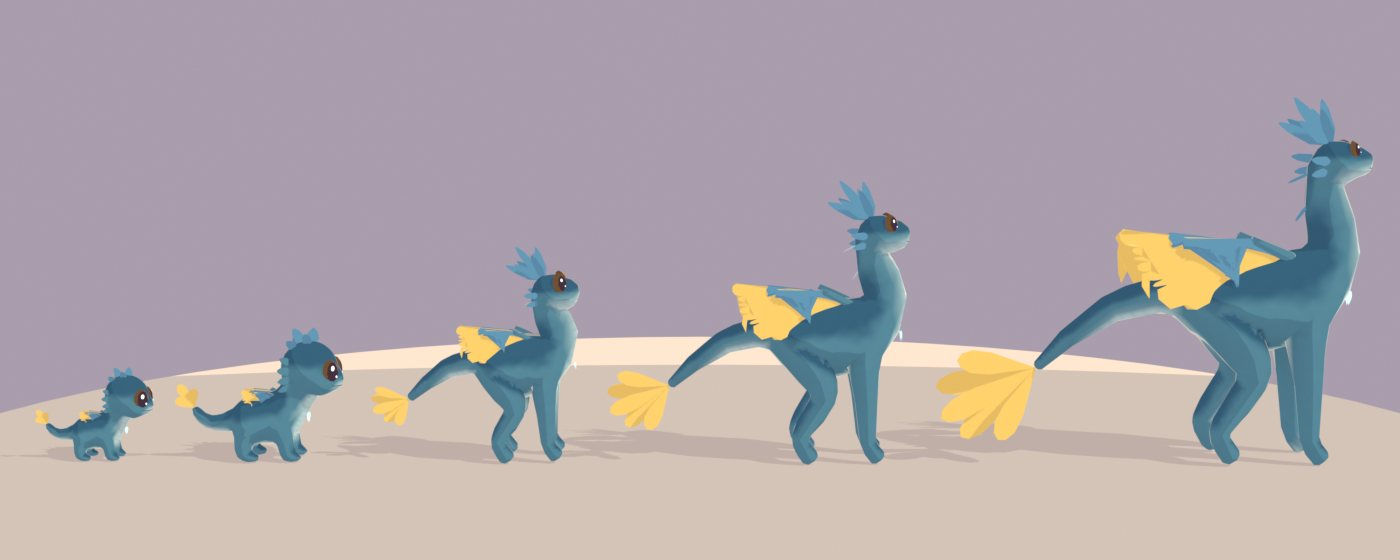
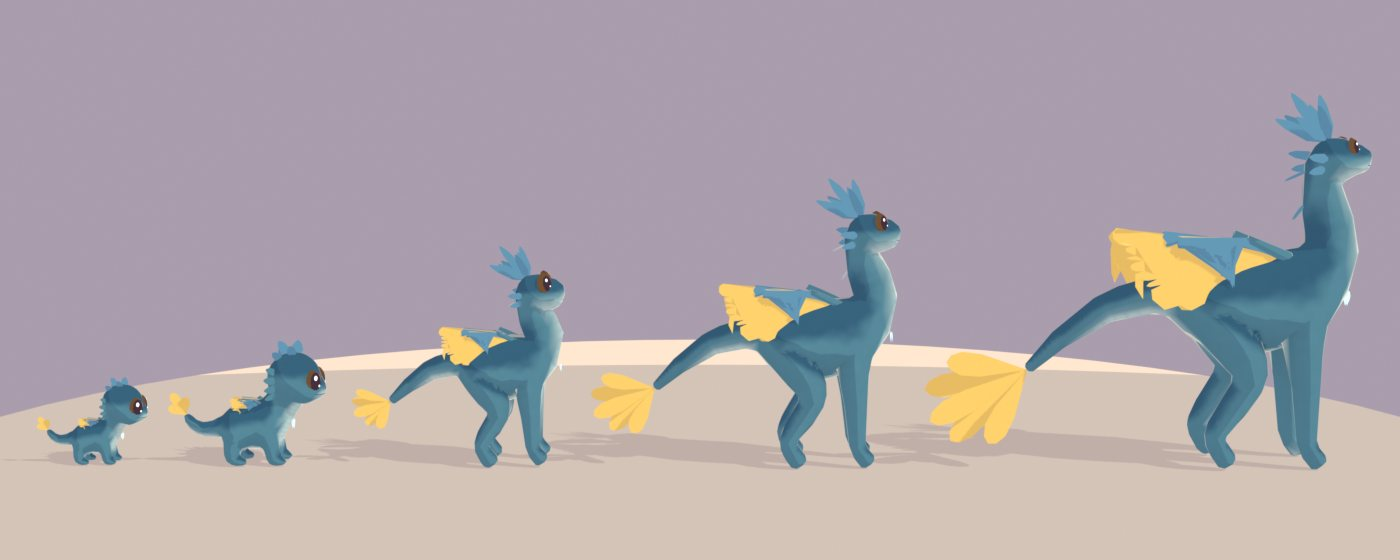
R11b: the lineups at the common scale, all nine together, a sizes question

diff --git a/tools/dragons/review_site/template.html b/tools/dragons/review_site/template.html
@@ -248,6 +248,7 @@ footer { margin-top: 40px; color: var(--muted); font-size: 13px; max-width: 72ch
     <h2 id="sum-h">At a glance</h2>
     <div class="table-scroll"><table id="summary"></table></div>
     <p class="note">Rarer kinds start with better stats: common ones total 28, harder to find 31, rare 34, and the Blazeplume sits a little above its better parent. Size is grown size next to a Pouncer; the breeds span about ±50%.</p>
+    <figure id="together" hidden></figure>
   </section>
 
   <div id="kinds"></div>
@@ -392,6 +393,18 @@ function renderKind(k) {
         oninput: () => notesChanged("verdicts", k.id) }),
       h("div", { class: "saved", id: "s-verdicts-" + k.id, "aria-live": "polite" })));
   return art;
+}
+
+function renderTogether() {
+  const t = DATA.together;
+  if (!t) return;
+  const fig = $("#together");
+  lightboxSets.together = { title: "All nine", items: [{ src: t.src, caption: "Grown, at true size" }] };
+  fig.append(
+    h("button", { type: "button", "aria-label": "See full size: all nine at true size", onclick: () => openLightbox("together", 0) },
+      h("img", { src: t.src, alt: "All nine dragons grown, side by side at true size, in rows by rarity", width: t.w, height: t.h })),
+    h("figcaption", {}, "All nine grown, side by side at true size: the common three, the harder to find three, then the rare two and the crossbreed. Is anyone too big or too small?"));
+  fig.hidden = false;
 }
 
 function renderQuestions() {
@@ -553,6 +566,7 @@ async function connect() {
 
 renderRail();
 renderSummary();
+renderTogether();
 const kindsBox = $("#kinds");
 for (const k of DATA.kinds) kindsBox.append(renderKind(k));
 renderQuestions();

diff --git a/tools/dragons/review_site/make.py b/tools/dragons/review_site/make.py
@@ -133,7 +133,11 @@ QUESTIONS = [
          hint="Now, as a test build (dev menu, Next kind), or after DR3, when they hatch from real eggs in "
               "your save and your current dragons become new kinds.",
          choices=["Send a test build now", "After DR3"]),
-    dict(id="other", q="Anything else?", hint="The look overall, the sizes, stats, names, anything.", choices=[]),
+    dict(id="sizes", q="Do the sizes feel right?",
+         hint="The picture under the table shows all nine grown at true size. The Puffback is the biggest (1.35 of a "
+              "Pouncer), the Glimmermoth the smallest (0.85); each is one number to change.",
+         choices=["Right as they are", "Change some (say which)"]),
+    dict(id="other", q="Anything else?", hint="The look overall, stats, names, anything.", choices=[]),
 ]
 
 
@@ -184,8 +188,15 @@ def main():
             colourings=[v["name"] for v in k.VARIANTS[:3]], rare=k.VARIANTS[3]["name"], blurb=m["blurb"],
             parents=[dragons.kind(p).META["title"] for p in m.get("parents", ())],
             notes=NOTES.get(name, {}), sheets=sheets, game=game))
+    together = None
+    jpg = os.path.join(ROOT, "docs", "art", "reviews", "R11b", "together.jpg")
+    if os.path.exists(jpg):
+        shutil.copy(jpg, os.path.join(SITE, "img", "together.jpg"))
+        w, h = png_size(os.path.join(ROOT, "build", "review", "together.png"))
+        together = dict(src="img/together.jpg", w=w, h=h)
+        files.append("img/together.jpg")
     template = open(os.path.join(HERE, "template.html"), encoding="utf-8").read()
-    data = json.dumps(dict(kinds=kinds, questions=QUESTIONS), ensure_ascii=False)
+    data = json.dumps(dict(kinds=kinds, questions=QUESTIONS, together=together), ensure_ascii=False)
     page = template.replace("/*DATA*/{}", data)
     open(os.path.join(SITE, "index.html"), "w", encoding="utf-8", newline="\n").write(page)
     print(f"[site] {SITE}: {len(kinds)} kinds, {len(files)} files")

diff --git a/tools/dragons/review_page.py b/tools/dragons/review_page.py
@@ -85,6 +85,14 @@ def main():
                    f"{s['wing']} | {s['wit']} | {s['might']} | {s['breath']} | {s['stamina']} | {sum(s.values())} |")
     out += ["", "Rarer kinds start with better stats (common 28, harder to get 31, rare 34; the crossbreed",
             "a little above its better parent), and lean to rarer traits (D77).", ""]
+    if os.path.exists(os.path.join(ROOT, "build", "review", "together.png")):
+        subprocess.run(["powershell", "-ExecutionPolicy", "Bypass", "-File",
+                        os.path.join(ROOT, "tools", "concept", "to_jpg.ps1"), "-Names", "together", "-OutDir",
+                        os.path.join("docs", "art", "reviews", "R11b"), "-SrcDir", os.path.join("build", "review"),
+                        "-Width", "1400"], check=True, capture_output=True)
+        out += ["All nine grown at true size (by rarity: common, harder to get, rare and the crossbreed; each at",
+                "its META size on the common scale, `tools/blender/dragonkit/together.py`):",
+                "![](R11b/together.jpg)", ""]
     for k in kinds:
         out += section(k)
     open(PAGE, "w", encoding="utf-8", newline="\n").write("\n".join(out) + "\n")

diff --git a/docs/art/reviews/R11b-new-dragons.md b/docs/art/reviews/R11b-new-dragons.md
@@ -21,6 +21,10 @@ and Kind colouring). Nothing here is from the concept images, which were only re
 Rarer kinds start with better stats (common 28, harder to get 31, rare 34; the crossbreed
 a little above its better parent), and lean to rarer traits (D77).
 
+All nine grown at true size (by rarity: common, harder to get, rare and the crossbreed; each at
+its META size on the common scale, `tools/blender/dragonkit/together.py`):
+![](R11b/together.jpg)
+
 ## 1. Pouncer: Ember, common
 
 The Pouncer (Ember, common): a sleek, cat-like dragon. A kitten of a hatchling with a big round head, huge eyes and a leaf-tipped tail grows into a lithe, panther-like adult: long legs, a small round head with pointed ears and swept-back horns, big scalloped bat wings and a long tail ending in twin fins. Playful and quick; the "classic dragon" of the eight. Concept: docs/art/concept/dragons/dragon_pouncer.jpg (R11).
